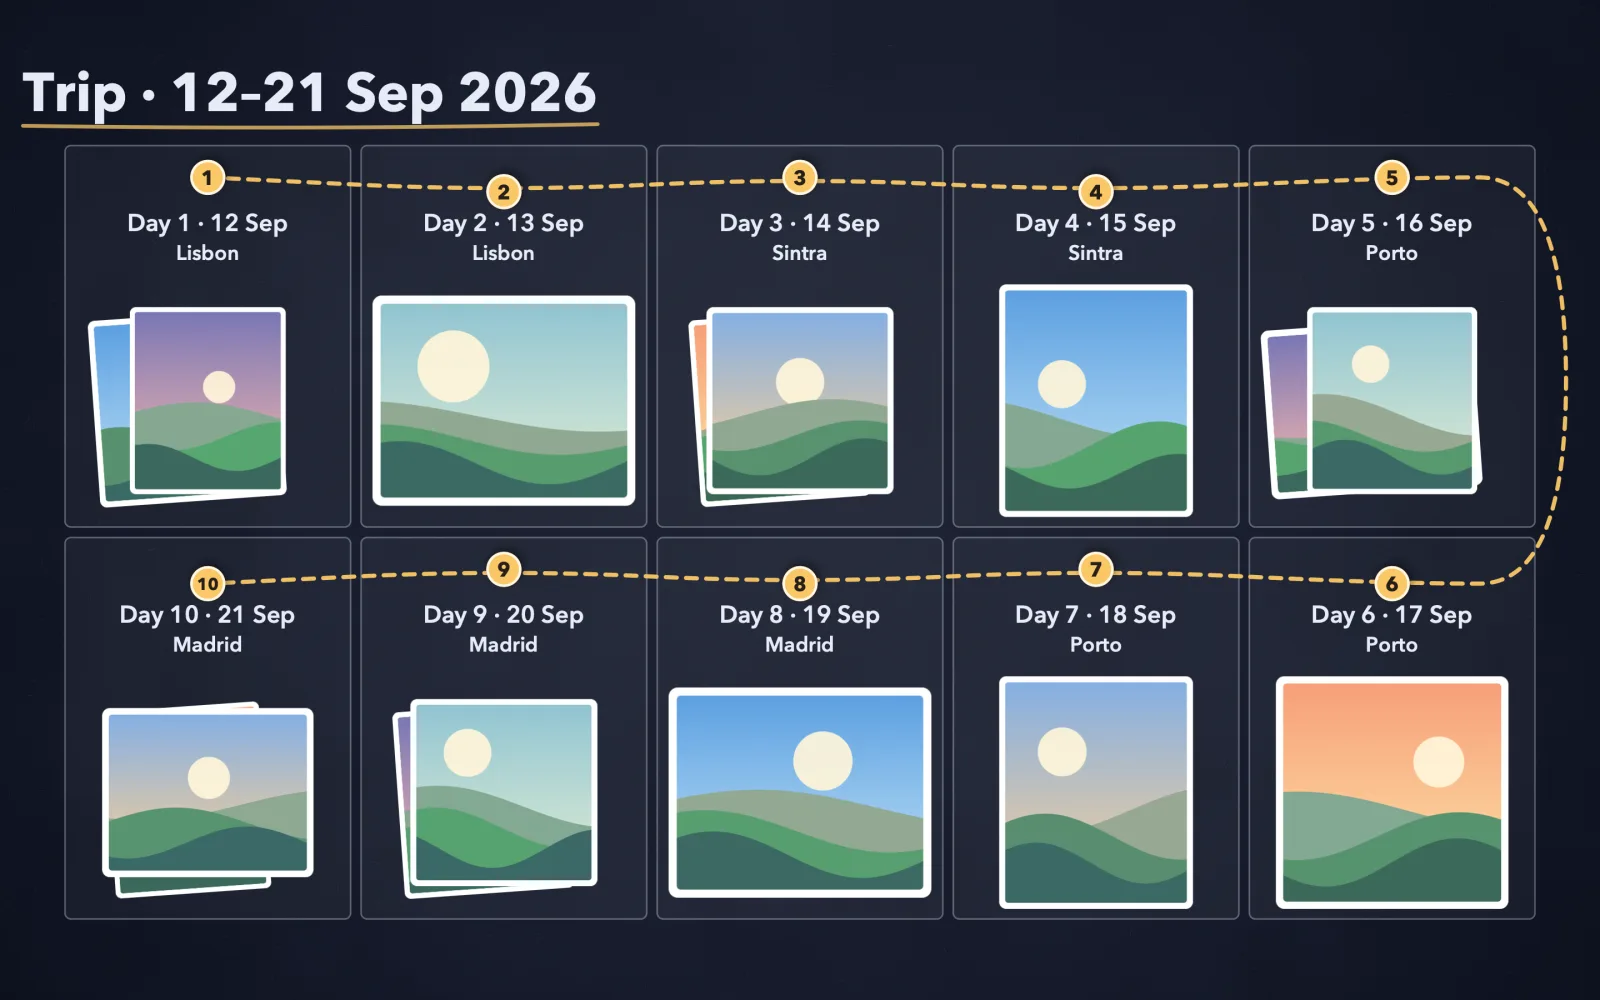
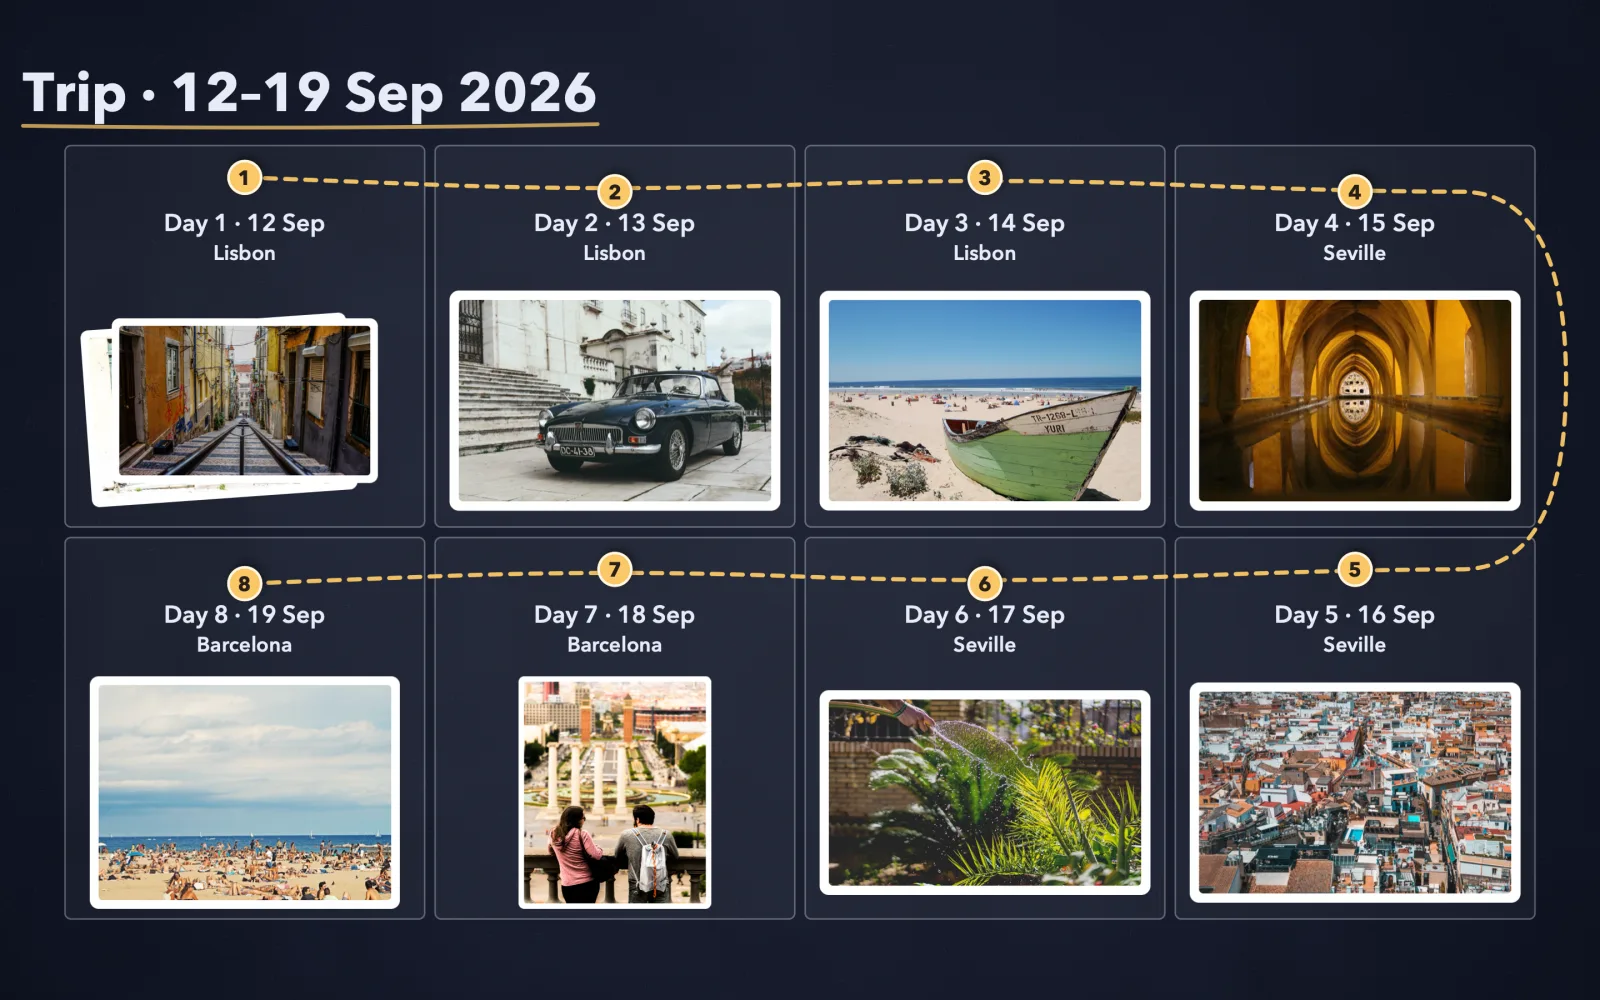
Timeline renders with real CC0 photos

diff --git a/assets/home/CREDITS.md b/assets/home/CREDITS.md
@@ -16,3 +16,30 @@ Stickers in this folder were cut by Sticta's own pipeline from these photos. All
 - catlady.webp: [Woman holding cat (Unsplash).jpg](https://commons.wikimedia.org/wiki/File:Woman_holding_cat_(Unsplash).jpg)
 
 Earlier stickers (lena, maya, crew, duo, cam) come from the CC0 photos "90s Chic", "Brunette woman portrait" and "Asaf R 2016-07-09" (Unsplash via Wikimedia Commons).
+
+## Timeline renders
+
+timeline-wallcalendar.webp, timeline-clothesline.webp, timeline-filmstrip.webp and timeline-trip.webp are real Sticta Timeline wallpapers (`tack-cli timeline-marketing --set --photos`), with these CC0 photos printed as stickers (Unsplash via Wikimedia Commons):
+
+- [Boy laughs and splashes (Unsplash).jpg](https://commons.wikimedia.org/wiki/File:Boy_laughs_and_splashes_(Unsplash).jpg)
+- [Crowded Barcelona beach (Unsplash).jpg](https://commons.wikimedia.org/wiki/File:Crowded_Barcelona_beach_(Unsplash).jpg)
+- [Cute puppy running (Unsplash).jpg](https://commons.wikimedia.org/wiki/File:Cute_puppy_running_(Unsplash).jpg)
+- [Dog on a beach (Unsplash).jpg](https://commons.wikimedia.org/wiki/File:Dog_on_a_beach_(Unsplash).jpg)
+- [Family at Cottesloe beach (Unsplash).jpg](https://commons.wikimedia.org/wiki/File:Family_at_Cottesloe_beach_(Unsplash).jpg)
+- [Family watching beach sunset (Unsplash).jpg](https://commons.wikimedia.org/wiki/File:Family_watching_beach_sunset_(Unsplash).jpg)
+- [Ginger long-haired cat (Unsplash).jpg](https://commons.wikimedia.org/wiki/File:Ginger_long-haired_cat_(Unsplash).jpg)
+- [Happy Birthday! (Unsplash).jpg](https://commons.wikimedia.org/wiki/File:Happy_Birthday!_(Unsplash).jpg)
+- [Happy Child (Unsplash).jpg](https://commons.wikimedia.org/wiki/File:Happy_Child_(Unsplash).jpg)
+- [Laughing bride with blowing veil (Unsplash).jpg](https://commons.wikimedia.org/wiki/File:Laughing_bride_with_blowing_veil_(Unsplash).jpg)
+- [Lisbon alley staircase (Unsplash).jpg](https://commons.wikimedia.org/wiki/File:Lisbon_alley_staircase_(Unsplash).jpg)
+- [Lisbon beach featuring boat (Unsplash).jpg](https://commons.wikimedia.org/wiki/File:Lisbon_beach_featuring_boat_(Unsplash).jpg)
+- [Lisbon street (Unsplash).jpg](https://commons.wikimedia.org/wiki/File:Lisbon_street_(Unsplash).jpg)
+- [Man and woman laugh in snow (Unsplash).jpg](https://commons.wikimedia.org/wiki/File:Man_and_woman_laugh_in_snow_(Unsplash).jpg)
+- [Men laughing by green valley (Unsplash).jpg](https://commons.wikimedia.org/wiki/File:Men_laughing_by_green_valley_(Unsplash).jpg)
+- [On a balcony in Barcelona (Unsplash).jpg](https://commons.wikimedia.org/wiki/File:On_a_balcony_in_Barcelona_(Unsplash).jpg)
+- [On the roofs of Seville (Unsplash).jpg](https://commons.wikimedia.org/wiki/File:On_the_roofs_of_Seville_(Unsplash).jpg)
+- [Royal Alcázar of Seville, Sevilla, Spain (Unsplash).jpg](https://commons.wikimedia.org/wiki/File:Royal_Alc%C3%A1zar_of_Seville,_Sevilla,_Spain_(Unsplash).jpg)
+- [Seville, Spain (Unsplash).jpg](https://commons.wikimedia.org/wiki/File:Seville,_Spain_(Unsplash).jpg)
+- [Sundaycar in Lisbon (Unsplash).jpg](https://commons.wikimedia.org/wiki/File:Sundaycar_in_Lisbon_(Unsplash).jpg)
+- [Sunset Picnic (Unsplash).jpg](https://commons.wikimedia.org/wiki/File:Sunset_Picnic_(Unsplash).jpg)
+- [Woman holding cat (Unsplash).jpg](https://commons.wikimedia.org/wiki/File:Woman_holding_cat_(Unsplash).jpg)
